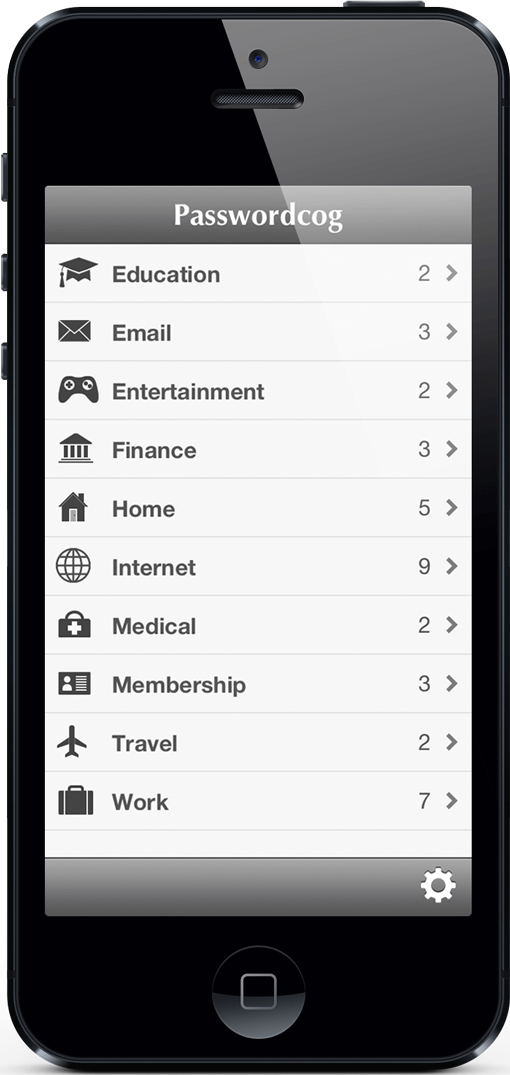
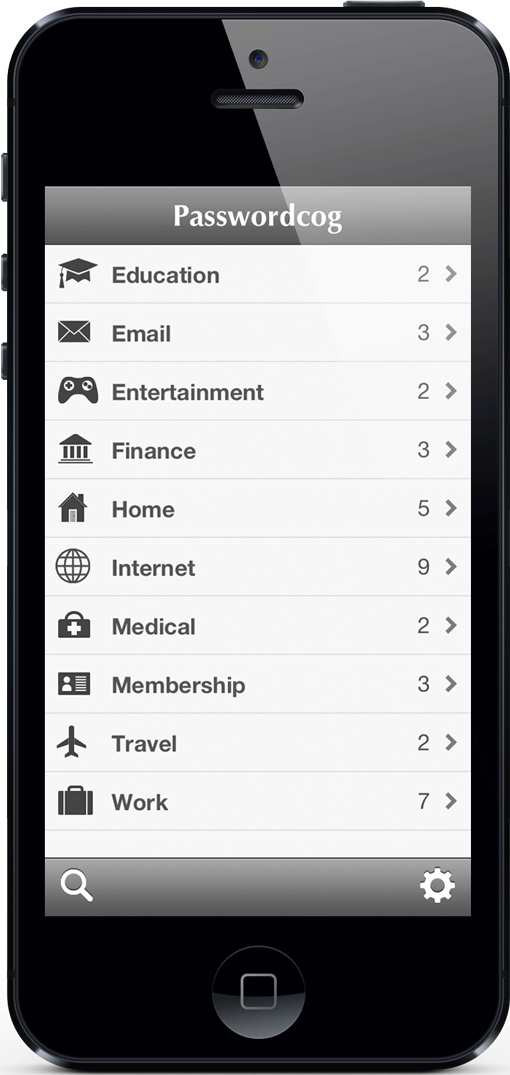
Update app description and fix minor UI issues on multiple devices.

diff --git a/public/passwordcog.html b/public/passwordcog.html
@@ -22,8 +22,11 @@
     
     <link href="assets/css/application.css" rel="stylesheet">
 
-    <link href="assets/css/application-iphone.css" rel="stylesheet"
-      media="only screen and (max-device-width: 480px)">
+    <link href="assets/css/application-iphone-portrait.css" rel="stylesheet"
+      media="only screen and (max-device-width: 480px) and (orientation:portrait)">
+
+    <link href="assets/css/application-iphone-landscape.css" rel="stylesheet"
+      media="only screen and (max-device-width: 480px) and (orientation:landscape)">
 
     <link href="assets/css/application-ipad-portrait.css" rel="stylesheet"
       media="only screen and (min-device-width: 768px) and (max-device-width: 1024px) and (orientation:portrait)">
@@ -82,9 +85,11 @@
               <ul>
                 <li>Saves passwords in one of the 10 available categories.</li>
                 <li>Sorts accounts by alphabetical order, or allows to order them manually.</li>
+                <li>Includes a global search feature for added accounts.</li>
                 <li>Requires a master passcode to access the app.</li>
                 <li>Auto-locks to protect the app from prying eyes.</li>
                 <li>Optionally erases all data in case of many failed unlock attempts.</li>
+                <li>Exports all entered data to Dropbox.</li>
                 <li>Synchronizes with iCloud.</li>
               </ul>
             </p>

diff --git a/public/assets/css/application.css b/public/assets/css/application.css
@@ -18,11 +18,11 @@ body {
 }
 
 p {
-  line-height: 2.3em;
+  line-height: 1.9em;
 }
 
 li {
-  line-height: 2.1em;
+  line-height: 1.8em;
 }
 
 hr {

diff --git a/public/assets/css/application-iphone-landscape.css b/public/assets/css/application-iphone-landscape.css
@@ -1,0 +1,15 @@
+.content {
+  width: 580px;
+}
+
+.navbar {
+  width: 660px;
+}
+
+.span4 {
+  width: 560px;
+}
+
+.span7 {
+  width: 560px;
+}

diff --git a/public/assets/css/application-iphone-portrait.css b/public/assets/css/application-iphone-portrait.css
@@ -1,0 +1,15 @@
+.content {
+  width: 240px;
+}
+
+.navbar {
+  width: 320px;
+}
+
+.span4 {
+  width: 240px;
+}
+
+.span7 {
+  width: 240px;
+}

diff --git a/public/assets/css/application-ipad-portrait.css b/public/assets/css/application-ipad-portrait.css
@@ -1,9 +1,9 @@
 p {
-  line-height: 1.5em;
+  line-height: 1.3em;
 }
 
 li {
-  line-height: 1.4em;
+  line-height: 1.3em;
 }
 
 .span4 {

diff --git a/public/assets/css/application-ipad-landscape.css b/public/assets/css/application-ipad-landscape.css
@@ -1,9 +1,9 @@
 p {
-  line-height: 2em;
+  line-height: 1.6em;
 }
 
 li {
-  line-height: 2em;
+  line-height: 1.8em;
 }
 
 .span4 {
